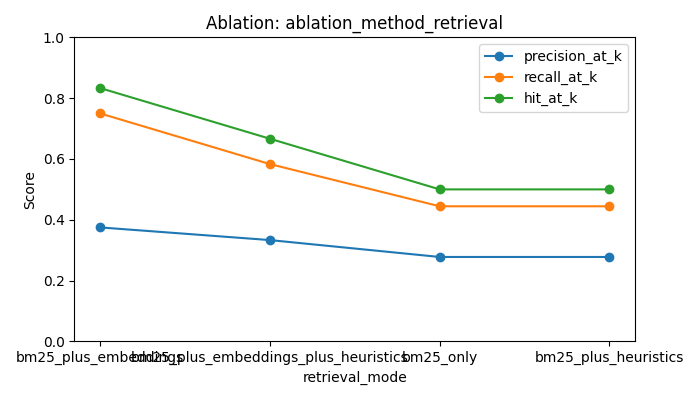
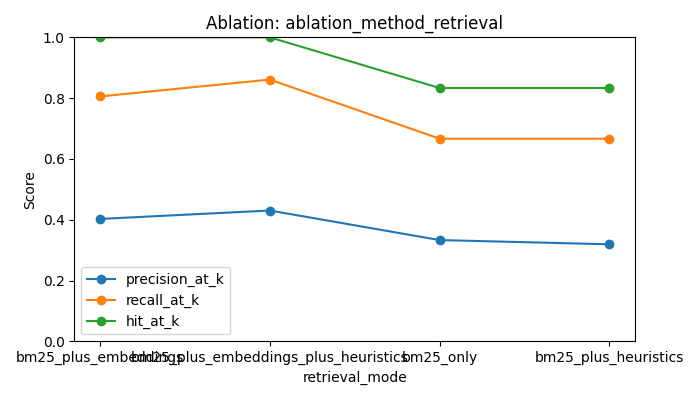
Add dataset methodology and improve hybrid retrieval metadata

diff --git a/src/retrieval/hybrid.py b/src/retrieval/hybrid.py
@@ -19,6 +19,9 @@ class HybridRetriever:
         self.use_embeddings = use_embeddings
         self.use_heuristics = use_heuristics
         self.max_chunks_per_doc = max_chunks_per_doc
+        self.embedding_weight = 0.75
+        self.bm25_weight = 0.25
+        self.heuristic_weight = 0.18
         self.embedding = None
         self.embedding_error: str | None = None
         if self.use_embeddings:
@@ -55,11 +58,13 @@ class HybridRetriever:
     def _source_priority_bonus(self, source_url: str) -> float:
         url = source_url.lower()
         if "nccourts.gov" in url or "ncleg.gov" in url or "ncleg.net" in url:
-            return 2.4
+            return 0.9
         if "legalaidnc.org" in url:
-            return 1.1
+            return 0.45
+        if "northcarolinalegalservices.org" in url:
+            return 0.35
         if "hemlane.com" in url or "turbotenant.com" in url:
-            return -0.5
+            return -0.2
         return 0.0
 
     def _heuristic_bonus(self, query: str, chunk) -> float:
@@ -68,51 +73,89 @@ class HybridRetriever:
         title = self._normalize(chunk.title)
         text = self._normalize(chunk.text[:600])
         issue = (chunk.issue_category or "").lower()
+        issue_tags = {tag.lower() for tag in getattr(chunk, "issue_tags", []) if tag}
 
         bonus = 0.0
 
         issue_hints = self._infer_issue_hints(query)
         if issue and issue in issue_hints:
-            bonus += 2.5
-        if issue == "housing_general":
-            bonus -= 0.4
+            bonus += 1.0
+            if len(issue_hints) > 1:
+                bonus += 0.3
+        extra_issue_matches = len((issue_tags - {issue}) & issue_hints)
+        bonus += min(extra_issue_matches * 0.2, 0.4)
+
+        if (
+            issue not in issue_hints
+            and issue_tags & {"housing_general", "landlord_tenant_statute"}
+            and issue_hints
+        ):
+            # Broad overview/statute chunks are still useful, but on specific
+            # issue questions they should trail focused issue pages.
+            bonus -= 0.35
+            if len(issue_hints) > 1:
+                bonus -= 0.25
 
         title_keyword_hits = sum(1 for word in q_keywords if len(word) > 3 and word in title)
-        bonus += min(title_keyword_hits * 0.45, 1.8)
+        bonus += min(title_keyword_hits * 0.18, 0.7)
 
         if "appeal" in q and "10 days" in text:
-            bonus += 1.8
+            bonus += 0.7
         if "security deposit" in q and ("30 days" in text or "60 days" in text):
-            bonus += 1.8
+            bonus += 0.7
         if any(term in q for term in {"utilities", "utility", "water", "power", "gas"}) and (
             "may not disconnect" in text or "cannot force tenants out" in text
         ):
-            bonus += 2.0
+            bonus += 0.8
         if any(term in q for term in {"lockout", "lock me out", "court order", "locks"}) and (
             "cannot lock out" in text or "cannot force tenants out" in text or "changing the locks" in text
         ):
-            bonus += 2.0
+            bonus += 0.8
+            if issue == "lockout":
+                bonus += 0.45
         if "month-to-month" in q or "month to month" in q:
             if "7 days" in text and "42-14" in text:
-                bonus += 2.6
+                bonus += 1.0
             elif "7 days" in text:
-                bonus += 1.2
+                bonus += 0.45
         if "security deposit" in q and ("42-52" in text or "tenant security deposit act" in text):
-            bonus += 1.2
+            bonus += 0.45
         if "appeal" in q and ("notice of appeal" in text or "district court" in text):
-            bonus += 1.0
+            bonus += 0.35
 
         if "small claims" in title and not any(term in q for term in {"small claims", "magistrate", "court", "hearing"}):
-            bonus -= 0.9
+            bonus -= 0.35
 
         bonus += self._source_priority_bonus(chunk.source_url)
         return bonus
 
+    def _normalize_component_scores(self, results: list[dict]) -> dict[str, float]:
+        if not results:
+            return {}
+
+        scores = [float(result["score"]) for result in results]
+        max_score = max(scores)
+        min_score = min(scores)
+
+        normalized: dict[str, float] = {}
+        for result in results:
+            chunk_id = result["chunk"].chunk_id
+            score = float(result["score"])
+            if max_score == min_score:
+                normalized[chunk_id] = 1.0
+            else:
+                normalized[chunk_id] = (score - min_score) / (max_score - min_score)
+        return normalized
+
     def search(self, query: str, top_k: int = 5) -> list[dict]:
-        bm25_results = self.bm25.search(query, top_k=top_k)
+        candidate_k = max(top_k * 3, 10)
+        bm25_results = self.bm25.search(query, top_k=candidate_k)
         embedding_results: list[dict] = []
         if self.embedding is not None:
-            embedding_results = self.embedding.search(query, top_k=top_k)
+            embedding_results = self.embedding.search(query, top_k=candidate_k)
+
+        bm25_scores = self._normalize_component_scores(bm25_results)
+        embedding_scores = self._normalize_component_scores(embedding_results)
 
         merged: dict[str, dict] = defaultdict(dict)
 
@@ -120,13 +163,30 @@ class HybridRetriever:
             chunk = result["chunk"]
             chunk_id = chunk.chunk_id
             if not merged[chunk_id]:
-                merged[chunk_id] = {"chunk": chunk, "score": 0.0, "methods": []}
-            merged[chunk_id]["score"] += result["score"]
-            merged[chunk_id]["methods"].append(result["method"])
+                merged[chunk_id] = {
+                    "chunk": chunk,
+                    "score": 0.0,
+                    "methods": [],
+                    "component_scores": {"bm25": 0.0, "embedding": 0.0},
+                }
+            method = result["method"]
+            if method == "bm25":
+                merged[chunk_id]["component_scores"]["bm25"] = bm25_scores.get(chunk_id, 0.0)
+            elif method == "embedding":
+                merged[chunk_id]["component_scores"]["embedding"] = embedding_scores.get(chunk_id, 0.0)
+            if method not in merged[chunk_id]["methods"]:
+                merged[chunk_id]["methods"].append(method)
+
+        for item in merged.values():
+            component_scores = item["component_scores"]
+            item["score"] = (
+                self.bm25_weight * component_scores["bm25"]
+                + self.embedding_weight * component_scores["embedding"]
+            )
 
         if self.use_heuristics:
             for item in merged.values():
-                item["score"] += self._heuristic_bonus(query, item["chunk"])
+                item["score"] += self.heuristic_weight * self._heuristic_bonus(query, item["chunk"])
 
         ranked = sorted(merged.values(), key=lambda item: item["score"], reverse=True)
 

diff --git a/src/data/metadata.py b/src/data/metadata.py
@@ -1,6 +1,12 @@
 from __future__ import annotations
 
-from dataclasses import dataclass
+from dataclasses import dataclass, field
+
+
+def parse_issue_tags(raw_value: str | None) -> list[str]:
+    if not raw_value:
+        return []
+    return [tag.strip().lower() for tag in str(raw_value).split("|") if tag.strip()]
 
 
 @dataclass
@@ -14,3 +20,10 @@ class SourceDocument:
     issue_category: str
     file_name: str
     text: str
+    issue_tags: list[str] = field(default_factory=list)
+
+    def __post_init__(self) -> None:
+        parsed_tags = self.issue_tags or parse_issue_tags(self.issue_category)
+        self.issue_tags = list(dict.fromkeys(parsed_tags))
+        if self.issue_tags:
+            self.issue_category = self.issue_tags[0]

diff --git a/src/data/collect.py b/src/data/collect.py
@@ -5,7 +5,7 @@ from pathlib import Path
 import pandas as pd
 
 from src.config import SETTINGS
-from src.data.metadata import SourceDocument
+from src.data.metadata import SourceDocument, parse_issue_tags
 from src.utils.io import read_text
 
 
@@ -33,6 +33,7 @@ def load_documents(base_dir: str | Path = ".") -> list[SourceDocument]:
                 issue_category=row.issue_category,
                 file_name=row.file_name,
                 text=read_text(text_path),
+                issue_tags=parse_issue_tags(row.issue_category),
             )
         )
 

diff --git a/src/app.py b/src/app.py
@@ -48,6 +48,7 @@ def render_sources(results: list[dict]) -> None:
         with st.expander(f"{idx}. {chunk.title}"):
             st.write(f"**URL:** {chunk.source_url}")
             st.write(f"**Issue category:** {chunk.issue_category}")
+            st.write(f"**Issue tags:** {', '.join(getattr(chunk, 'issue_tags', [])) or chunk.issue_category}")
             st.write(f"**Methods:** {methods or 'unknown'}")
             st.write(f"**Score:** {item.get('score', 0.0):.3f}")
             st.write(snippet)

diff --git a/src/data/chunk.py b/src/data/chunk.py
@@ -11,6 +11,7 @@ class TextChunk:
     doc_id: str
     title: str
     issue_category: str
+    issue_tags: list[str]
     source_url: str
     text: str
 
@@ -47,6 +48,7 @@ def chunk_documents(
                     doc_id=doc.doc_id,
                     title=doc.title,
                     issue_category=doc.issue_category,
+                    issue_tags=doc.issue_tags,
                     source_url=doc.source_url,
                     text=chunk,
                 )

diff --git a/src/main.py b/src/main.py
@@ -115,6 +115,7 @@ def build_retrieval_report(user_question: str) -> str:
                 f"{idx}. {chunk.title}",
                 f"   URL: {chunk.source_url}",
                 f"   Issue category: {chunk.issue_category}",
+                f"   Issue tags: {', '.join(getattr(chunk, 'issue_tags', [])) or chunk.issue_category}",
                 f"   Methods: {methods or 'unknown'}",
                 f"   Score: {score:.3f}",
                 f"   Snippet: {snippet}",

diff --git a/src/data/clean.py b/src/data/clean.py
@@ -43,6 +43,7 @@ def clean_documents(documents: Iterable[SourceDocument]) -> list[SourceDocument]
                 issue_category=doc.issue_category,
                 file_name=doc.file_name,
                 text=clean_document_text(doc.text),
+                issue_tags=doc.issue_tags,
             )
         )
     return cleaned_docs

diff --git a/data/raw/DATASET_METHODOLOGY.md b/data/raw/DATASET_METHODOLOGY.md
@@ -1,0 +1,86 @@
+# Data Set Methodology
+
+This project uses a custom-curated dataset focused on North Carolina tenant-rights and housing-law questions. The dataset was built manually rather than downloaded as a ready-made benchmark because the goal of the project was to answer a narrow set of North Carolina housing questions using trustworthy local sources.
+
+## List of Sources
+
+The raw source files and corpus metadata are stored in:
+
+- `data/raw/`
+- `data/raw/source_index.csv`
+
+The corpus includes North Carolina court guidance, legal-aid resources, statutes, and a small number of carefully selected explanatory sources that were judged useful for tenant-rights retrieval.
+
+## Custom Curation
+
+The dataset was built through custom curation. I manually searched for North Carolina housing-law and tenant-rights sources, reviewed each source for relevance, and only kept sources that were useful for likely user questions such as eviction, lockouts, repairs, utility shutoffs, lease termination, and security deposits.
+
+For each candidate source, I checked whether it:
+
+- was actually relevant to North Carolina law or process
+- contained useful legal or procedural information for tenants
+- was not mostly repeated information already covered better by another source
+- did not contain excessive ads, page chrome, navigation clutter, or low-value filler
+- was specific enough to help retrieval instead of only adding broad noise
+
+This means the dataset was not just collected; it was filtered and shaped for the specific RAG task.
+
+## Manual Annotation and Labeling
+
+The project also includes manual annotation and labeling.
+
+For the source corpus, I manually labeled each source in `source_index.csv` with metadata such as:
+
+- document ID
+- title
+- URL
+- source type
+- jurisdiction
+- county when relevant
+- issue category
+
+For evaluation, I manually created and labeled the questions in `data/eval/eval_questions.csv`, including:
+
+- issue category
+- expected relevant document IDs
+- key answer points
+
+This manual labeling made it possible to evaluate retrieval quality in a controlled way instead of relying only on informal testing.
+
+## Manual Cleaning and Editing
+
+After collecting the raw sources, I manually cleaned and edited them so they would be easier for the model and retriever to use.
+
+This manual editing included:
+
+- removing ads, menus, navigation text, and repeated page elements
+- removing irrelevant links and other non-content text
+- trimming repeated or low-value information
+- cleaning formatting issues from copied legal materials
+- preserving the legal explanations, procedures, timelines, and rights information that were most useful for retrieval
+
+This step mattered because many legal and housing webpages contain boilerplate, repeated headers, or distracting content that would make retrieval worse if left in the corpus unchanged.
+
+## Processing Pipeline
+
+After manual curation and editing, the documents were processed through the project pipeline:
+
+1. raw source text was stored in `data/raw/`
+2. metadata was recorded in `data/raw/source_index.csv`
+3. sources were loaded through `src/data/collect.py`
+4. source text was normalized and cleaned through `src/data/clean.py`
+5. documents were chunked through `src/data/chunk.py`
+6. processed chunks were written by `src/data/pipeline.py`
+
+The final processed retrieval corpus is saved in `data/processed/chunks.json`.
+
+## Why This Counts as Dataset Construction
+
+This dataset was constructed through:
+
+- custom curation of domain-specific North Carolina sources
+- manual annotation and labeling of both sources and evaluation questions
+- manual cleaning and editing of raw source text
+- a repeatable preprocessing pipeline that converts the curated corpus into retrieval-ready chunks
+
+Together, these steps document how the dataset was built and why it is appropriate for the project.
